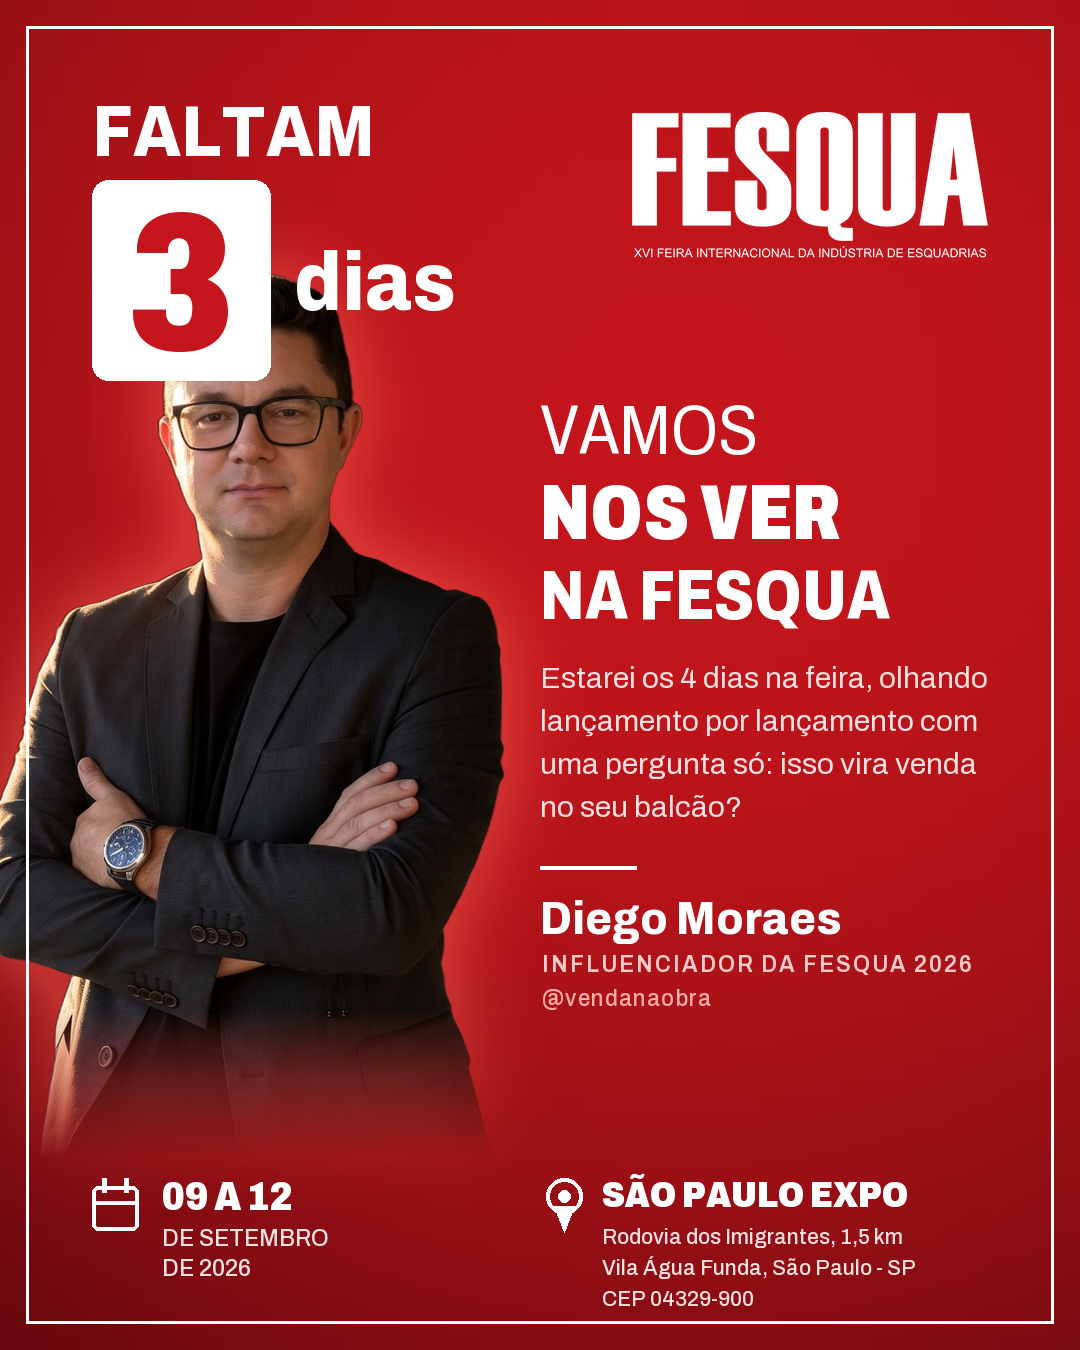
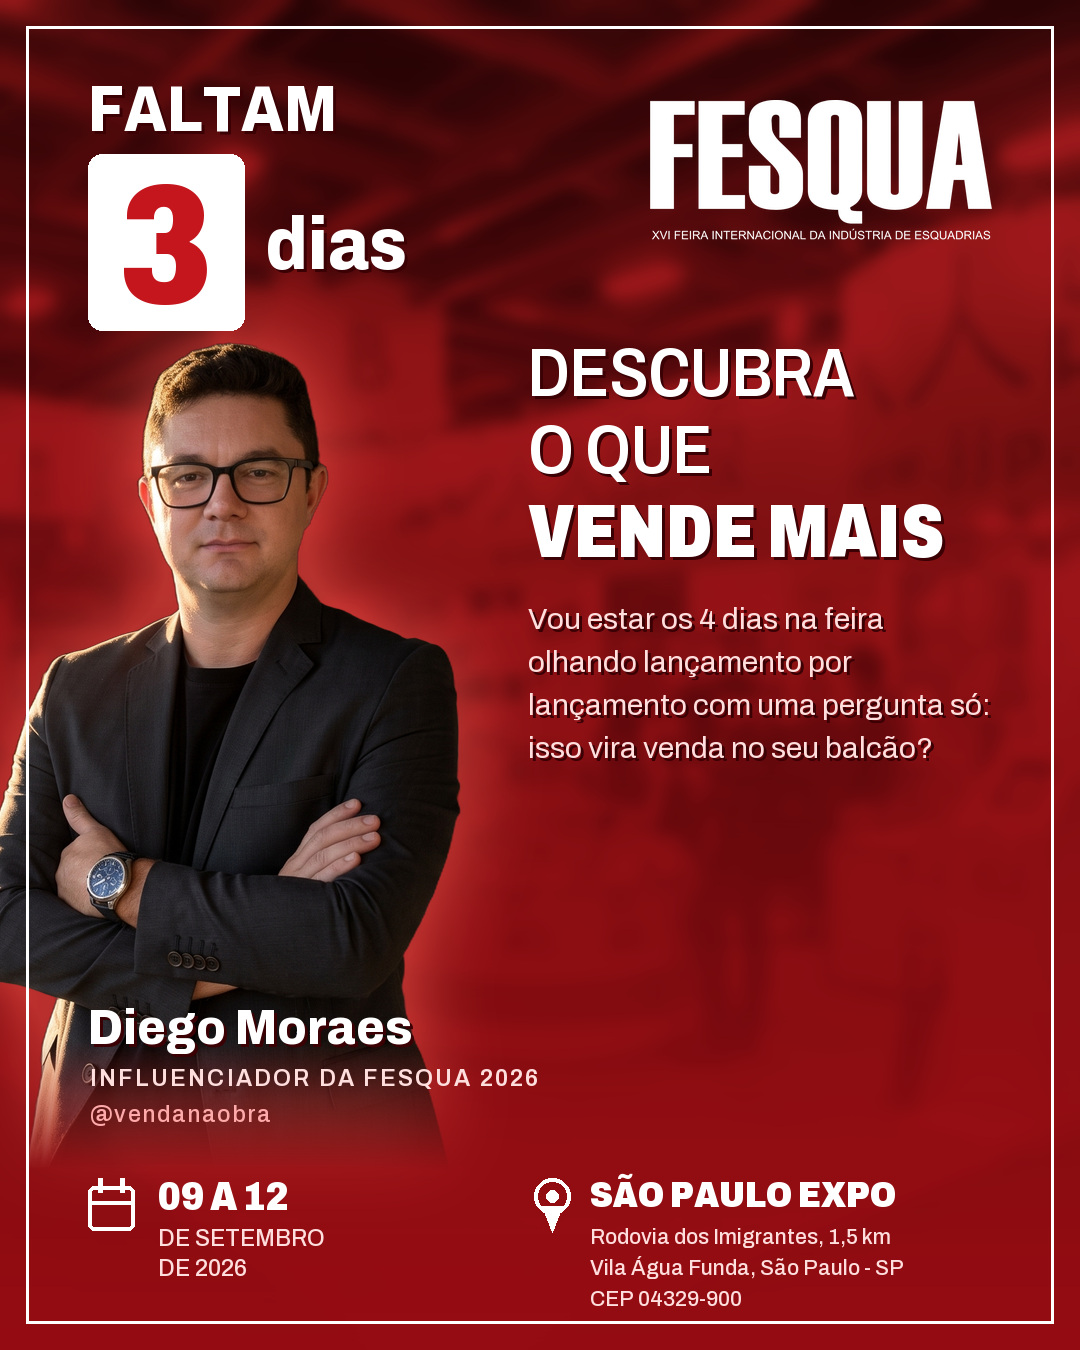
Card da Fesqua no layout da peca original: fundo de pavilhao e numero fora do rosto

diff --git a/gerar_card_fesqua.py b/gerar_card_fesqua.py
@@ -1,26 +1,40 @@
 # -*- coding: utf-8 -*-
 """Card de contagem regressiva da Fesqua 2026 — 1080x1350 (4:5), feed do @vendanaobra.
 
-Nasceu em 05/09/2026: o Diego mandou o card de contagem regressiva que a propria
-Fesqua publica com os EMBAIXADORES dela (foto recortada sobre vermelho, "Faltam
-N dias", logo, data e endereco) e pediu o mesmo com ele, marcando a @fesqua como
-colaboradora.
+Nasceu em 05/09/2026: o Diego mandou o card que a PROPRIA feira publica com os
+embaixadores dela (Ricardo Camara) e pediu o mesmo com ele, marcando a @fesqua
+como colaboradora. Na segunda volta ele foi explicito: **copiar o layout da peca
+original**, trocando so a foto, o numero de dias e o assunto — que no caso dele
+e' VENDA, nao tecnologia.
 
-Duas coisas que NAO se copiam da peca de referencia:
+Por isso este arquivo persegue a peca da feira elemento por elemento: fundo de
+pavilhao tingido de vermelho, moldura branca fina, "Faltam N dias" com o numero
+numa caixa branca, logo a direita, chamada em tres linhas com uma delas em caixa
+cheia, paragrafo curto, pessoa recortada a esquerda, cracha com nome e funcao, e
+o rodape com data e endereco, cada um com o seu icone.
 
-- **A credencial.** O card do Ricardo Camara diz "Embaixador". O Diego nao e
-  embaixador: a pagina oficial tem 13 embaixadores e ele nao esta la. E, no
-  ajuste que ele mesmo pediu as 12h55 de 05/09/2026 (registrado em
-  FESQUA-2026-registro-envios.md), a credencial se escreve **"influenciador da
-  Fesqua 2026"** — sem a palavra "oficial". O card segue esse texto: dar-se um
-  cargo maior do que o que se tem, na semana em que ele fala com as marcas
-  expositoras usando exatamente essa credencial, e o tipo de erro que volta.
+Tres coisas que NAO se copiam:
+
+- **A credencial.** O card do Ricardo diz "Embaixador". O Diego nao e' embaixador
+  — a pagina oficial tem 13 e ele nao esta la. E, no ajuste que ele mesmo pediu
+  as 12h55 de 05/09/2026 (FESQUA-2026-registro-envios.md, na pasta da Perffec),
+  a credencial se escreve "influenciador da Fesqua 2026", sem "oficial".
 - **A promessa.** A peca da feira vende a feira ("descubra novas tecnologias").
   A dele vende o que so ele entrega: a leitura comercial do que estiver la.
+- **O numero.** E' calculado da data de PUBLICACAO ate 09/09/2026, nunca escrito
+  a mao — contagem regressiva com numero errado e' o erro que o feed inteiro ve.
 
-O numero da contagem e calculado da data de PUBLICACAO ate 09/09/2026, nao
-escrito a mao — card de contagem regressiva com numero errado e o unico erro que
-o feed inteiro percebe.
+Armadilhas ja pagas na montagem, cada uma custou um render:
+
+- O numero NAO pode cair sobre o rosto: na peca original ele fica ACIMA da
+  cabeca, e a pessoa comeca abaixo do bloco da contagem. Foi a primeira correcao
+  que o Diego pediu.
+- Vermelho chapado sai "vermelho demais": a peca original tem FOTO de pavilhao
+  por tras do vermelho, e e' ela que da profundidade ao card.
+- O halo atras da silhueta precisa de folga no canvas antes do desfoque, senao o
+  desfoque bate na borda do bitmap e vira um RETANGULO claro no card.
+- O recorte e' plano MEDIO: sem dissolver os ultimos pixels, o corpo aparece
+  cortado por uma linha reta no meio da arte.
 
 Uso:
     python gerar_card_fesqua.py                 # card para amanha (padrao)
@@ -33,7 +47,7 @@ import argparse
 import os
 from datetime import date, datetime, timedelta
 
-from PIL import Image, ImageChops, ImageDraw, ImageFilter
+from PIL import Image, ImageChops, ImageDraw, ImageEnhance, ImageFilter
 
 from tipografia import rotulo as _archivo
 from tipografia import escrever_espacado as _espacado
@@ -45,16 +59,17 @@ SAIDA = os.path.join(BASE, "imagens")
 LARG, ALT = 1080, 1350
 ABERTURA = date(2026, 9, 9)          # primeiro dia da Fesqua 2026
 
-# a paleta sai da propria peca da feira: vermelho profundo, branco, nada mais
+# a paleta sai da propria peca da feira: vermelho, branco, nada mais
+VERMELHO = (150, 12, 18)
 VERMELHO_CLARO = (196, 22, 28)
-VERMELHO_ESCURO = (86, 6, 12)
 BRANCO = (255, 255, 255)
+ROSA = (255, 222, 222)
 
-TITULO = ["VAMOS", "NOS VER", "NA FESQUA"]
-DESTAQUE = 1                          # a linha que vai em caixa cheia
-LINHA_FINA = 0                        # a linha que vai em peso leve
-CORPO = ("Estarei os 4 dias na feira, olhando lançamento por lançamento com "
-         "uma pergunta só: isso vira venda no seu balcão?")
+# a chamada: mesma forma da peca original (verbo + duas linhas), assunto trocado
+TITULO = ["DESCUBRA", "O QUE", "VENDE MAIS"]
+DESTAQUE = 2                          # a linha em caixa cheia, como "TECNOLOGIAS"
+CORPO = ("Vou estar os 4 dias na feira olhando lançamento por lançamento "
+         "com uma pergunta só: isso vira venda no seu balcão?")
 NOME = "Diego Moraes"
 CARGO = "Influenciador da Fesqua 2026"
 ARROBA = "@vendanaobra"
@@ -68,28 +83,32 @@ def dias_para_a_feira(quando: date) -> int:
 
 
 def _fundo() -> Image.Image:
-    """Vermelho da feira: claro no alto a direita, fechando escuro nas bordas."""
-    peq = 68
-    base = Image.new("RGB", (peq, int(peq * ALT / LARG)), VERMELHO_ESCURO)
-    px = base.load()
-    lp, ap = base.size
-    focox, focoy = lp * 0.62, ap * 0.30
-    raio = (lp ** 2 + ap ** 2) ** 0.5 * 0.72
-    for y in range(ap):
-        for x in range(lp):
-            d = min(1.0, (((x - focox) ** 2 + (y - focoy) ** 2) ** 0.5) / raio)
-            t = 1.0 - d * d                      # cai devagar no centro
-            px[x, y] = tuple(int(e + (c - e) * t)
-                             for c, e in zip(VERMELHO_CLARO, VERMELHO_ESCURO))
-    return base.resize((LARG, ALT), Image.LANCZOS).filter(ImageFilter.GaussianBlur(6))
+    """Pavilhao de feira tingido de vermelho — o fundo da peca original.
+
+    A foto e' de dominio publico (CC0, Wikimedia Commons) e entra so como
+    TEXTURA: desfocada, dessaturada e coberta por uma rampa vermelha que fecha
+    quase opaca embaixo, onde vao o cracha e o rodape. O que sobra visivel e' o
+    teto e o vulto das pessoas no alto — que e' o que a peca da feira mostra.
+    """
+    foto = Image.open(os.path.join(ATIVOS, "fundo-feira.jpg")).convert("RGB")
+    if foto.size != (LARG, ALT):
+        foto = foto.resize((LARG, ALT), Image.LANCZOS)
+    foto = foto.filter(ImageFilter.GaussianBlur(7))
+    foto = ImageEnhance.Color(foto).enhance(0.22)
+    foto = ImageEnhance.Brightness(foto).enhance(0.68)
+    foto = ImageChops.multiply(foto, Image.new("RGB", foto.size, (236, 44, 46)))
+
+    rampa = Image.linear_gradient("L").resize(foto.size)
+    rampa = rampa.point(lambda v: int(52 + v * 0.78))      # 20% no topo, 92% na base
+    return Image.composite(Image.new("RGB", foto.size, VERMELHO), foto, rampa)
 
 
 def _desvanecer_base(recorte: Image.Image, altura: int) -> Image.Image:
     """Dissolve os ultimos pixels do recorte no fundo.
 
     A foto e' um plano MEDIO: termina na cintura, e sem isto o corpo aparece
-    cortado por uma linha reta no meio do card — o olho le como erro de montagem,
-    nao como enquadramento.
+    cortado por uma linha reta no meio do card — o olho le como erro de
+    montagem, nao como enquadramento.
     """
     rampa = Image.linear_gradient("L").resize((recorte.width, altura))
     rampa = rampa.transpose(Image.FLIP_TOP_BOTTOM)          # 255 em cima, 0 embaixo
@@ -103,13 +122,11 @@ def _desvanecer_base(recorte: Image.Image, altura: int) -> Image.Image:
 def _halo(recorte: Image.Image) -> Image.Image:
     """Brilho claro atras da pessoa.
 
-    O Diego esta de paleto PRETO e o fundo e' vermelho escuro: sem separar os
-    dois, o ombro dele desaparece no card e sobra uma cabeca flutuando. Sombra
-    escura (o reflexo automatico) piorava; o que resolve e' o contrario — um
-    halo vermelho claro logo atras da silhueta.
+    O Diego esta de paleto PRETO sobre fundo vermelho escuro: sem separar os
+    dois, o ombro dele some e sobra uma cabeca flutuando. A folga de 90 px existe
+    porque o recorte vem cortado no bbox — sem ela o desfoque bate na borda do
+    bitmap e o halo vira um RETANGULO claro no card.
     """
-    # A folga de 90 px existe porque o recorte vem cortado no bbox: sem ela o
-    # desfoque bate na borda do bitmap e o halo vira um RETANGULO claro no card.
     folga = 90
     campo = Image.new("L", (recorte.width + 2 * folga, recorte.height + 2 * folga), 0)
     campo.paste(recorte.split()[3], (folga, folga))
@@ -119,110 +136,26 @@ def _halo(recorte: Image.Image) -> Image.Image:
     return halo
 
 
-def _texto_medido(d, xy, texto, fonte, fill, anchor="la"):
+def _escrever(d, xy, texto, fonte, fill, anchor="la", sombra=False) -> None:
+    """Escreve com sombra opcional.
+
+    O fundo agora e' FOTO: texto branco sem sombra perde a borda assim que o
+    Instagram comprime a imagem.
+    """
+    if sombra:
+        d.text((xy[0] + 3, xy[1] + 3), texto, font=fonte, fill=(58, 0, 4), anchor=anchor)
     d.text(xy, texto, font=fonte, fill=fill, anchor=anchor)
-
-
-def montar(quando: date, dias: int, destino: str) -> str:
-    tela = _fundo().convert("RGBA")
-
-    # ---- pessoa: ancorada na base, a esquerda, como na peca da feira
-    pessoa = Image.open(os.path.join(ATIVOS, "diego-recorte.png")).convert("RGBA")
-    alvo_alt = 890
-    escala = alvo_alt / pessoa.height
-    pessoa = pessoa.resize((int(pessoa.width * escala), alvo_alt), Image.LANCZOS)
-    pessoa = _desvanecer_base(pessoa, 150)
-    base_pessoa = 1160                      # onde o paleto se dissolve no vermelho
-    px, py = -26, base_pessoa - alvo_alt
-    halo = _halo(pessoa)
-    tela.alpha_composite(halo, (px - (halo.width - pessoa.width) // 2,
-                                py - (halo.height - pessoa.height) // 2))
-    tela.alpha_composite(pessoa, (px, py))
-
-    d = ImageDraw.Draw(tela)
-
-    # ---- moldura fina, a assinatura visual do card da feira
-    d.rectangle([26, 26, LARG - 27, ALT - 27], outline=(255, 255, 255, 150), width=3)
-
-    # ---- contagem regressiva, na frente da pessoa (como o "5" da peca original)
-    x, y = 92, 92
-    _texto_medido(d, (x, y), "FALTAM", _archivo(72, peso=800, largura=88), BRANCO)
-
-    f_num = _archivo(196, peso=900, largura=80)
-    cx0, cy0 = x, y + 88
-    cw = max(int(f_num.getlength(str(dias))) + 70, 158)
-    ch = 200
-    d.rounded_rectangle([cx0, cy0, cx0 + cw, cy0 + ch], radius=16, fill=BRANCO)
-    _texto_medido(d, (cx0 + cw / 2, cy0 + ch / 2 + 4), str(dias), f_num,
-                  VERMELHO_CLARO, anchor="mm")
-    _texto_medido(d, (cx0 + cw + 24, cy0 + ch / 2 + 2),
-                  "dias" if dias != 1 else "dia",
-                  _archivo(84, peso=800, largura=88), BRANCO, anchor="lm")
-
-    # ---- logo da feira, no alto a direita
-    logo = Image.open(os.path.join(ATIVOS, "fesqua-logo-branco.png")).convert("RGBA")
-    lw = 356
-    logo = logo.resize((lw, int(logo.height * lw / logo.width)), Image.LANCZOS)
-    tela.alpha_composite(logo, (LARG - 92 - lw, 112))
-
-    # ---- coluna da direita: titulo, corpo e assinatura
-    xt = 540
-    util = LARG - xt - 88
-    y = 392
-    for i, linha in enumerate(TITULO):
-        peso, largura, tam = (900, 78, 78) if i == DESTAQUE else (
-            (400, 84, 70) if i == LINHA_FINA else (800, 80, 70))
-        f = _caber(linha, util, tam, peso, largura)
-        _texto_medido(d, (xt, y), linha, f, BRANCO)
-        y += int(f.size * 1.12)
-
-    y += 26
-    f_corpo = _archivo(30, peso=400, largura=100)
-    for linha in _quebrar(CORPO, f_corpo, util):
-        _texto_medido(d, (xt, y), linha, f_corpo, (255, 224, 224))
-        y += 43
-
-    # ---- crachá: nome e credencial (nem "embaixador" nem "oficial" — ver o docstring)
-    y += 34
-    d.line([xt, y, xt + 96, y], fill=BRANCO, width=4)
-    y += 26
-    _texto_medido(d, (xt, y), NOME, _archivo(46, peso=800, largura=92), BRANCO)
-    _espacado(d, (xt + 2, y + 58), CARGO.upper(),
-              _archivo(23, peso=600, largura=95), (255, 202, 202), tracking=2.0)
-    _espacado(d, (xt + 2, y + 92), ARROBA,
-              _archivo(23, peso=500, largura=95), (255, 172, 172), tracking=1.4)
-
-    # ---- rodape: data e local, cada um com o seu icone
-    yr = ALT - 176
-    _icone_calendario(d, (92, yr + 4))
-    f_datap = _archivo(24, peso=500, largura=95)
-    _texto_medido(d, (162, yr), DATAS[0], _archivo(40, peso=900, largura=86), BRANCO)
-    _texto_medido(d, (162, yr + 50), DATAS[1], f_datap, (255, 224, 224))
-    _texto_medido(d, (162, yr + 80), DATAS[2], f_datap, (255, 224, 224))
-
-    xl = 540
-    _icone_pin(d, (xl, yr + 4))
-    _texto_medido(d, (xl + 62, yr), LOCAL[0], _archivo(37, peso=900, largura=86), BRANCO)
-    yy = yr + 50
-    for linha in LOCAL[1:]:
-        _texto_medido(d, (xl + 62, yy), linha, _archivo(22, peso=500, largura=95),
-                      (255, 224, 224))
-        yy += 31
-
-    os.makedirs(os.path.dirname(destino), exist_ok=True)
-    tela.convert("RGB").save(destino, "JPEG", quality=94, subsampling=0, optimize=True)
-    return destino
 
 
 def _caber(texto: str, largura: int, tamanho: int, peso: int, largura_fonte: int):
     """Reduz a letra ate a linha caber na coluna.
 
-    O titulo e' escrito a mao neste arquivo e a coluna da direita tem 452 px:
-    trocar uma palavra por uma maior cortava a ultima letra no meio, e o card
-    saia assim para o feed sem ninguem ver.
+    A chamada e' escrita a mao neste arquivo e a coluna da direita tem 460 px:
+    trocar uma palavra por uma maior cortava a ultima letra no meio, e o card ia
+    para o feed assim sem ninguem ver.
     """
     f = _archivo(tamanho, peso=peso, largura=largura_fonte)
-    while f.getlength(texto) > largura and tamanho > 28:
+    while f.getlength(texto) > largura and tamanho > 26:
         tamanho -= 2
         f = _archivo(tamanho, peso=peso, largura=largura_fonte)
     return f
@@ -255,6 +188,90 @@ def _icone_pin(d, xy) -> None:
     d.ellipse([x + 6, y, x + 42, y + 36], outline=BRANCO, width=4)
     d.polygon([(x + 14, y + 28), (x + 34, y + 28), (x + 24, y + 54)], fill=BRANCO)
     d.ellipse([x + 18, y + 12, x + 30, y + 24], fill=BRANCO)
+
+
+def montar(quando: date, dias: int, destino: str) -> str:
+    tela = _fundo().convert("RGBA")
+
+    # ---- pessoa: a esquerda, comecando ABAIXO do bloco da contagem
+    pessoa = Image.open(os.path.join(ATIVOS, "diego-recorte.png")).convert("RGBA")
+    alvo_alt = 830
+    pessoa = pessoa.resize((int(pessoa.width * alvo_alt / pessoa.height), alvo_alt),
+                           Image.LANCZOS)
+    pessoa = _desvanecer_base(pessoa, 130)
+    px, py = -34, 1170 - alvo_alt
+    halo = _halo(pessoa)
+    tela.alpha_composite(halo, (px - (halo.width - pessoa.width) // 2,
+                                py - (halo.height - pessoa.height) // 2))
+    tela.alpha_composite(pessoa, (px, py))
+
+    d = ImageDraw.Draw(tela)
+    d.rectangle([26, 26, LARG - 27, ALT - 27], outline=(255, 255, 255, 150), width=3)
+
+    # ---- contagem regressiva, no alto a esquerda e ACIMA da cabeca
+    x, y = 88, 74
+    _escrever(d, (x, y), "FALTAM", _archivo(64, peso=800, largura=88), BRANCO,
+              sombra=True)
+
+    f_num = _archivo(170, peso=900, largura=80)
+    cx0, cy0 = x, y + 80
+    cw = max(int(f_num.getlength(str(dias))) + 62, 142)
+    ch = 176
+    d.rounded_rectangle([cx0, cy0, cx0 + cw, cy0 + ch], radius=14, fill=BRANCO)
+    _escrever(d, (cx0 + cw / 2, cy0 + ch / 2 + 4), str(dias), f_num,
+              VERMELHO_CLARO, anchor="mm")
+    _escrever(d, (cx0 + cw + 22, cy0 + ch / 2 + 2), "dias" if dias != 1 else "dia",
+              _archivo(74, peso=800, largura=88), BRANCO, anchor="lm", sombra=True)
+
+    # ---- logo da feira, no alto a direita
+    logo = Image.open(os.path.join(ATIVOS, "fesqua-logo-branco.png")).convert("RGBA")
+    lw = 342
+    logo = logo.resize((lw, int(logo.height * lw / logo.width)), Image.LANCZOS)
+    tela.alpha_composite(logo, (LARG - 88 - lw, 100))
+
+    # ---- chamada e paragrafo, na coluna da direita
+    xt = 528
+    util = LARG - xt - 84
+    y = 336
+    for i, linha in enumerate(TITULO):
+        peso, largura, tam = (900, 78, 76) if i == DESTAQUE else (600, 84, 68)
+        f = _caber(linha, util, tam, peso, largura)
+        _escrever(d, (xt, y), linha, f, BRANCO, sombra=True)
+        y += int(f.size * 1.14)
+
+    y += 26
+    f_corpo = _archivo(30, peso=400, largura=100)
+    for linha in _quebrar(CORPO, f_corpo, util):
+        _escrever(d, (xt, y), linha, f_corpo, ROSA, sombra=True)
+        y += 43
+
+    # ---- cracha: nome e funcao (nem "embaixador" nem "oficial" — ver o docstring)
+    yn = 1000
+    _escrever(d, (88, yn), NOME, _archivo(50, peso=800, largura=92), BRANCO, sombra=True)
+    _espacado(d, (90, yn + 64), CARGO.upper(),
+              _archivo(24, peso=600, largura=95), ROSA, tracking=2.2)
+    _espacado(d, (90, yn + 100), ARROBA,
+              _archivo(24, peso=500, largura=95), (255, 170, 170), tracking=1.4)
+
+    # ---- rodape: data e local, cada um com o seu icone
+    yr = ALT - 176
+    _icone_calendario(d, (88, yr + 4))
+    f_datap = _archivo(24, peso=500, largura=95)
+    _escrever(d, (158, yr), DATAS[0], _archivo(40, peso=900, largura=86), BRANCO)
+    _escrever(d, (158, yr + 50), DATAS[1], f_datap, ROSA)
+    _escrever(d, (158, yr + 80), DATAS[2], f_datap, ROSA)
+
+    xl = 528
+    _icone_pin(d, (xl, yr + 4))
+    _escrever(d, (xl + 62, yr), LOCAL[0], _archivo(37, peso=900, largura=86), BRANCO)
+    yy = yr + 50
+    for linha in LOCAL[1:]:
+        _escrever(d, (xl + 62, yy), linha, _archivo(22, peso=500, largura=95), ROSA)
+        yy += 31
+
+    os.makedirs(os.path.dirname(destino), exist_ok=True)
+    tela.convert("RGB").save(destino, "JPEG", quality=94, subsampling=0, optimize=True)
+    return destino
 
 
 def main() -> None:

diff --git a/CLAUDE.md b/CLAUDE.md
@@ -71,11 +71,20 @@ Decisões que valem para qualquer card novo desta série:
   colab e o post sai assim mesmo: perder a data do card seria pior. O log diz, e
   aí a marcação é na mão pelo app.
 - **A foto é a do Gemini** (`Fotos-IA/diego-obra-venda10x-2K-obra-ativa.png`),
-  recortada com `rembg` (bria-rmbg 2.0) e guardada em `midia/fesqua/`. Duas
-  armadilhas pagas na montagem: o halo atrás da silhueta precisa de folga no
-  canvas antes do desfoque (senão vira um RETÂNGULO claro no card), e o recorte
-  é plano médio — sem dissolver os últimos 150 px, o corpo aparece cortado por
-  uma linha reta no meio da arte.
+  recortada com `rembg` (bria-rmbg 2.0) e guardada em `midia/fesqua/`.
+- **O layout é o da peça da feira, elemento por elemento** — ele pediu isso
+  explicitamente na segunda volta: "copie o layout dele só mudando a foto, os
+  dias e a relação com vendas". Duas correções vieram daí e valem para qualquer
+  card novo: **o número nunca cobre o rosto** (na peça original ele fica ACIMA
+  da cabeça, e a pessoa começa abaixo do bloco da contagem) e **o fundo não é
+  vermelho chapado** — a peça original tem foto de pavilhão por trás do
+  vermelho, e é ela que dá profundidade. O fundo aqui é uma foto CC0 do Commons
+  (`midia/fesqua/fundo-feira.jpg`), desfocada, dessaturada e coberta por uma
+  rampa vermelha que fecha quase opaca embaixo, onde ficam o crachá e o rodapé.
+- Outras duas armadilhas de montagem: o halo atrás da silhueta precisa de folga
+  no canvas antes do desfoque (senão vira um RETÂNGULO claro no card), e o
+  recorte é plano médio — sem dissolver os últimos pixels, o corpo aparece
+  cortado por uma linha reta no meio da arte.
 
 ## Reel do EP25 — refeito em 27/08/2026 (formato, calendário e capas)
 
